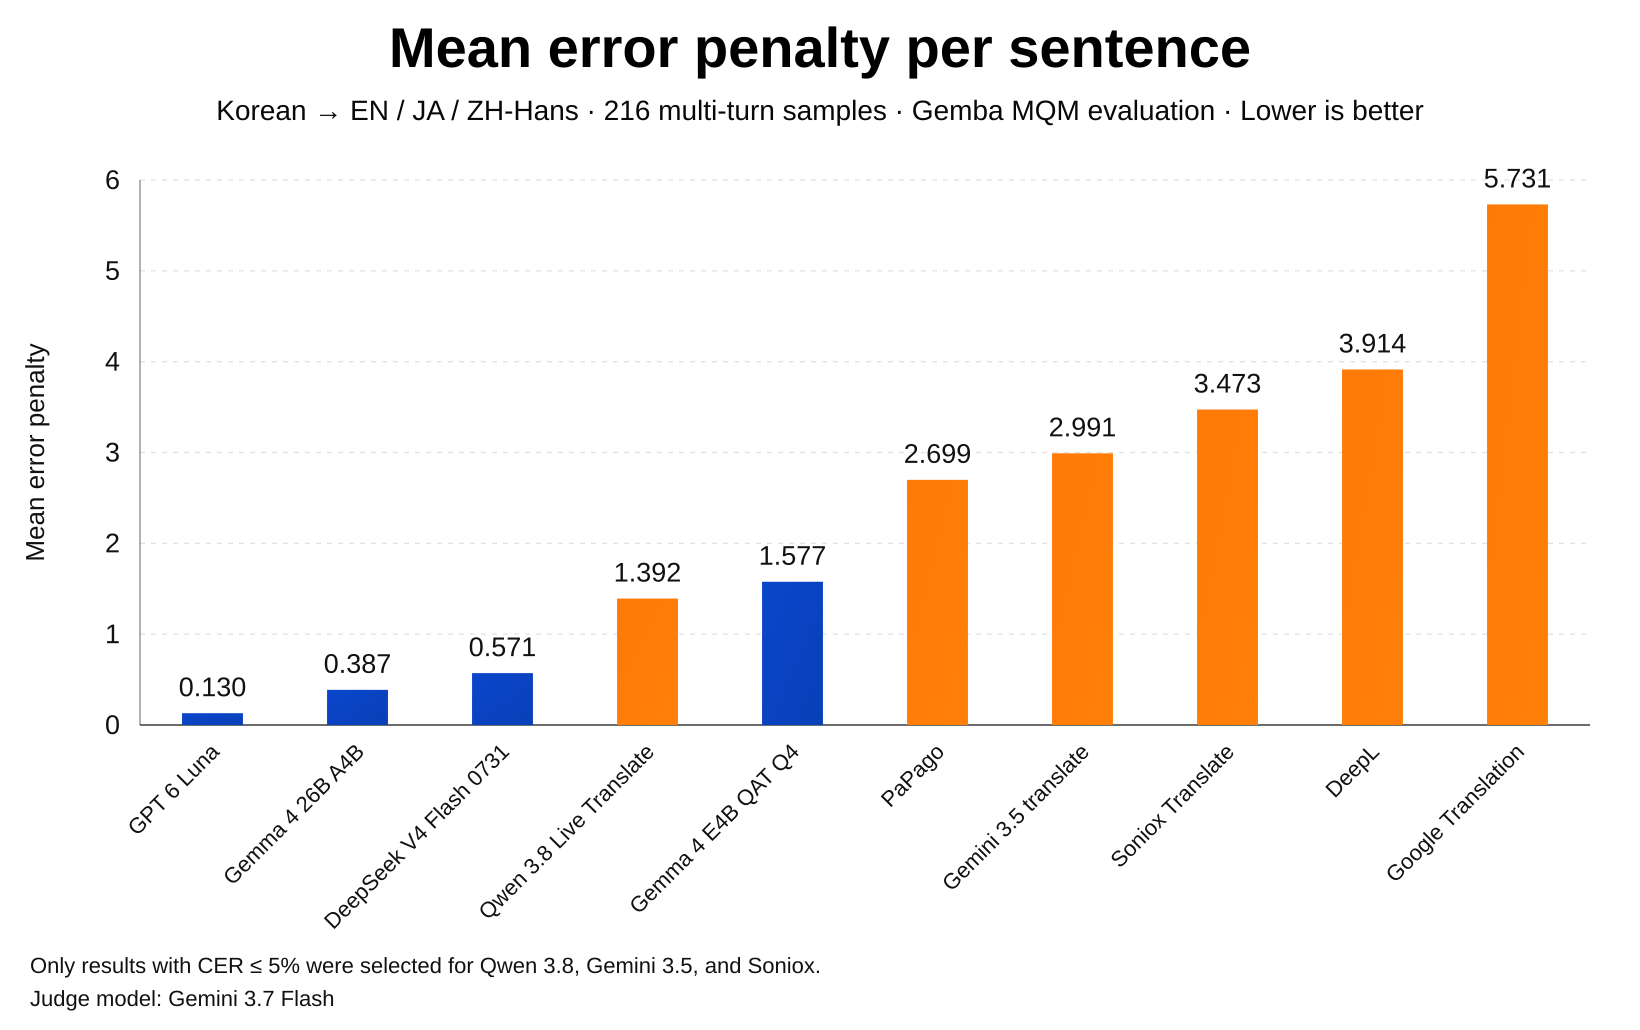
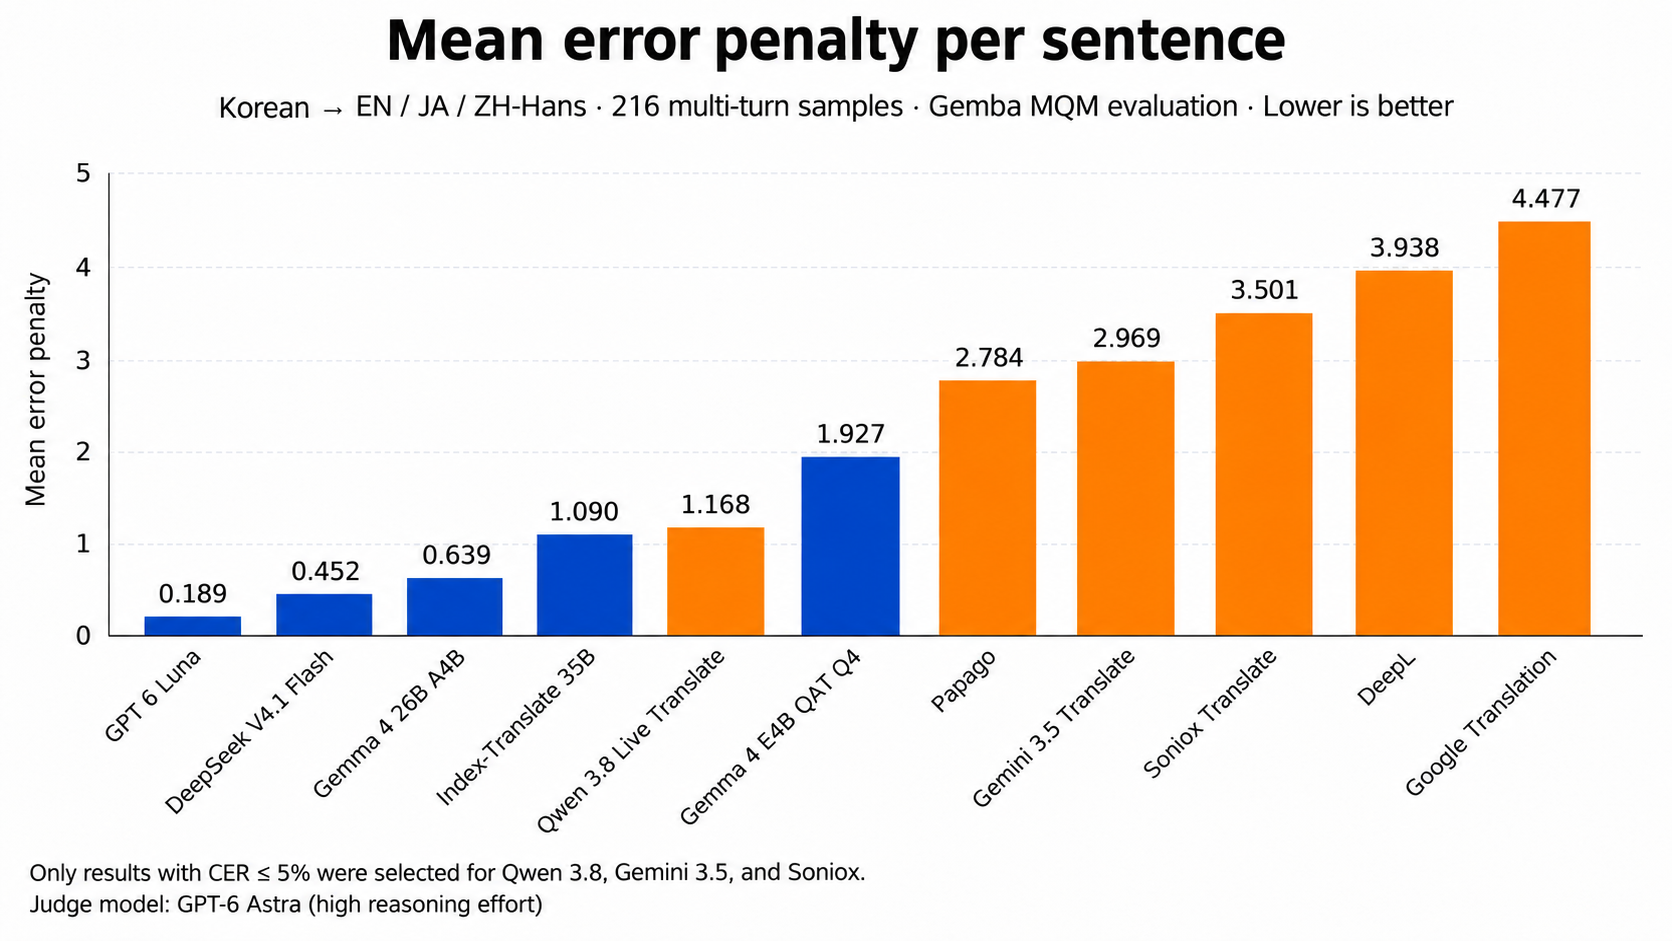
docs: drop retired ASR caveat and cap daily prompts at 30
Remove the CPU Qwen3-ASR 0.6B retirement note from every README and refresh the performance charts. Puri now admits 30 submitted prompts per installation per UTC day.

diff --git a/agent-relay/tests/service.spec.ts b/agent-relay/tests/service.spec.ts
@@ -183,7 +183,7 @@ describe('bounded relay service', () => {
     });
 
   it.each([['/v1/classify', classify], ['/v1/respond', respond]] as const)(
-    'admits the 50th prompt through %s independently of dollars and keeps D, M, tools and notices on that turn', async (path, body) => {
+    'admits the 30th prompt through %s independently of dollars and keeps D, M, tools and notices on that turn', async (path, body) => {
       vi.useFakeTimers();
       vi.setSystemTime(new Date('2026-10-30T12:00:00Z'));
       const upstream = vi.spyOn(globalThis, 'fetch').mockImplementation(async (url) =>
@@ -193,16 +193,16 @@ describe('bounded relay service', () => {
       const count = sqlite.prepare('SELECT COUNT(*) AS total FROM prompt_turns WHERE installation_hash = ? AND utc_date = ?');
       const storedUsage = sqlite.prepare('SELECT * FROM usage_daily WHERE installation_hash = ? AND utc_date = ?');
       try {
-        seedTurns(sqlite, installationHash, '2026-10-30', 49);
-        seedTurns(sqlite, 'b'.repeat(64), '2026-10-30', 50);
-        seedTurns(sqlite, installationHash, '2026-10-29', 50);
+        seedTurns(sqlite, installationHash, '2026-10-30', 29);
+        seedTurns(sqlite, 'b'.repeat(64), '2026-10-30', 30);
+        seedTurns(sqlite, installationHash, '2026-10-29', 30);
         sqlite.prepare('INSERT INTO usage_daily (installation_hash, utc_date, decisions_calls, responses_calls, cost_usd) VALUES (?, ?, 100, 100, 2)')
           .run(installationHash, '2026-10-30');
         expect((await settled(request(path, body), env)).status).toBe(200);
         const continuationPath = path === '/v1/classify' ? '/v1/respond' : '/v1/classify';
         const continuationBody = path === '/v1/classify' ? respond : classify;
         expect((await settled(request(continuationPath, continuationBody), env)).status).toBe(200);
-        expect(count.get(installationHash, '2026-10-30')).toEqual({ total: 50 });
+        expect(count.get(installationHash, '2026-10-30')).toEqual({ total: 30 });
         const row = storedUsage.get(installationHash, '2026-10-30');
         expect(row).toMatchObject({ decisions_calls: 101, responses_calls: 101, uncached_input_tokens: 140,
           cache_read_tokens: 40, cache_write_tokens: 20, decisions_output_tokens: 20, responses_output_tokens: 20,
@@ -228,7 +228,7 @@ describe('bounded relay service', () => {
           { type: 'function_call_output', call_id: 'tool1', output: '{}' },
           { role: 'user', content: '[app notice] Synthetic state change' }];
         expect((await settled(request('/v1/respond', { ...respond, input }), env)).status).toBe(200);
-        expect(count.get(installationHash, '2026-10-30')).toEqual({ total: 50 });
+        expect(count.get(installationHash, '2026-10-30')).toEqual({ total: 30 });
         expect(storedUsage.get(installationHash, '2026-10-30')).toMatchObject({ decisions_calls: 101, responses_calls: 102 });
         expect((await settled(request('/v1/respond', respond, `Bearer ${signToken({ sub: 'c'.repeat(64) })}`), env)).status).toBe(200);
         expect(count.get('c'.repeat(64), '2026-10-30')).toEqual({ total: 1 });
@@ -247,9 +247,9 @@ describe('bounded relay service', () => {
     const env = { ...testEnv(), AGENT_USAGE_DB: db };
     const count = sqlite.prepare('SELECT COUNT(*) AS total FROM prompt_turns WHERE installation_hash = ? AND utc_date = ?');
     try {
-      seedTurns(sqlite, installationHash, '2026-10-30', 49);
+      seedTurns(sqlite, installationHash, '2026-10-30', 29);
       expect((await settled(request('/v1/classify', classify), env)).status).toBe(200);
-      expect(count.get(installationHash, '2026-10-30')).toEqual({ total: 50 });
+      expect(count.get(installationHash, '2026-10-30')).toEqual({ total: 30 });
       vi.setSystemTime(new Date('2026-10-31T00:00:00Z'));
       expect((await settled(request(), env)).status).toBe(200);
       expect(count.get(installationHash, '2026-10-31')).toEqual({ total: 0 });
@@ -278,7 +278,7 @@ describe('bounded relay service', () => {
     { name: 'duplicate', turns: [turnId, turnId, turnId] },
     { name: 'different', turns: [turnId, 'e'.repeat(32), 'f'.repeat(32)] },
     { name: 'mixed duplicate and different', turns: [turnId, turnId, 'f'.repeat(32)] },
-  ])('atomically admits concurrent $name turn IDs at the 49-to-50 boundary', async ({ turns }) => {
+  ])('atomically admits concurrent $name turn IDs at the 29-to-30 boundary', async ({ turns }) => {
     vi.useFakeTimers();
     vi.setSystemTime(new Date('2026-10-30T12:00:00Z'));
     const upstream = vi.spyOn(globalThis, 'fetch').mockImplementation(async (url) =>
@@ -286,7 +286,7 @@ describe('bounded relay service', () => {
     const { sqlite, db } = accountingDatabase();
     const env = { ...testEnv(), AGENT_USAGE_DB: db };
     try {
-      seedTurns(sqlite, installationHash, '2026-10-30', 49);
+      seedTurns(sqlite, installationHash, '2026-10-30', 29);
       const responses = await Promise.all(turns.map((turn_id, index) =>
         settled(request(index % 2 === 0 ? '/v1/classify' : '/v1/respond',
           { ...(index % 2 === 0 ? classify : respond), turn_id }), env)));
@@ -306,7 +306,7 @@ describe('bounded relay service', () => {
         }
       }
       expect(sqlite.prepare('SELECT COUNT(*) AS total FROM prompt_turns WHERE installation_hash = ? AND utc_date = ?')
-        .get(installationHash, '2026-10-30')).toEqual({ total: 50 });
+        .get(installationHash, '2026-10-30')).toEqual({ total: 30 });
       const completed = responses.filter((response) => response.status === 200).length;
       expect(upstream).toHaveBeenCalledTimes(completed);
       expect(sqlite.prepare('SELECT decisions_calls + responses_calls AS calls FROM usage_daily WHERE installation_hash = ? AND utc_date = ?')
@@ -325,7 +325,7 @@ describe('bounded relay service', () => {
       const { sqlite, db } = accountingDatabase();
       const env = { ...testEnv(), AGENT_USAGE_DB: db };
       try {
-        seedTurns(sqlite, installationHash, '2026-10-30', 49);
+        seedTurns(sqlite, installationHash, '2026-10-30', 29);
         upstream.mockRejectedValueOnce(new Error('private synthetic content'));
         expect((await relay.fetch(request(path, body), env)).status).toBe(502);
         expect((await settled(request(), env)).status).toBe(200);
@@ -337,7 +337,7 @@ describe('bounded relay service', () => {
           decisions_output_tokens: 0, responses_output_tokens: 0, decisions_calls: path === '/v1/classify' ? 1 : 0,
           responses_calls: path === '/v1/classify' ? 2 : 3, missing_usage_count: 3, cost_usd: 0 });
         const turns = sqlite.prepare('SELECT * FROM prompt_turns WHERE installation_hash = ?').all(installationHash);
-        expect(turns).toHaveLength(50);
+        expect(turns).toHaveLength(30);
         expect(turns.filter((turn) => turn.turn_id === turnId)).toHaveLength(1);
         expect(JSON.stringify({ rows, turns })).not.toContain('private');
         expect((await relay.fetch(request('/v1/respond', { ...respond, turn_id: 'f'.repeat(32) }), env)).status).toBe(429);

diff --git a/agent-relay/src/usage.ts b/agent-relay/src/usage.ts
@@ -59,7 +59,7 @@ export async function checkAllowance(
       AND (EXISTS (SELECT 1 FROM prompt_turns WHERE installation_hash = ? AND turn_id = ?
         AND expires_at > ? AND model_admissions < ? AND (? = 0 OR classifier_admitted = 0))
         OR (NOT EXISTS (SELECT 1 FROM prompt_turns WHERE installation_hash = ? AND turn_id = ?)
-          AND (SELECT COUNT(*) FROM prompt_turns WHERE installation_hash = ? AND utc_date = ?) < 50))
+          AND (SELECT COUNT(*) FROM prompt_turns WHERE installation_hash = ? AND utc_date = ?) < 30))
     ORDER BY available.slot LIMIT 1
     ON CONFLICT(installation_hash, slot) DO UPDATE SET owner = excluded.owner, turn_id = excluded.turn_id,
       classification = excluded.classification, expires_at = excluded.expires_at
@@ -91,7 +91,7 @@ export async function checkAllowance(
           AND (expires_at <= ? OR model_admissions >= ? OR (? = 1 AND classifier_admitted = 1)))
           THEN 'service_turn_exhausted'
         WHEN NOT EXISTS (SELECT 1 FROM prompt_turns WHERE installation_hash = ? AND turn_id = ?)
-          AND (SELECT COUNT(*) FROM prompt_turns WHERE installation_hash = ? AND utc_date = ?) >= 50
+          AND (SELECT COUNT(*) FROM prompt_turns WHERE installation_hash = ? AND utc_date = ?) >= 30
           THEN 'service_allowance_exhausted'
         ELSE 'service_busy' END AS code
     `).bind(installation, turnId, timestamp, maxTurnAdmissions, classification ? 1 : 0,

diff --git a/agent-relay/tests/admission.spec.ts b/agent-relay/tests/admission.spec.ts
@@ -203,7 +203,7 @@ describe('durable model request admission', () => {
     const { sqlite, db } = accountingDatabase(relayMigrations.slice(0, 3));
     try {
       const seed = sqlite.prepare('INSERT INTO prompt_turns (installation_hash, turn_id, utc_date) VALUES (?, ?, ?)');
-      for (let index = 0; index < 49; index++) seed.run(installationHash, index.toString(16).padStart(32, '0'), '2026-11-01');
+      for (let index = 0; index < 29; index++) seed.run(installationHash, index.toString(16).padStart(32, '0'), '2026-11-01');
       sqlite.exec(readFileSync(new URL('../migrations/0004_request_admission.sql', import.meta.url), 'utf8'));
       const legacyId = '0'.repeat(32);
       for (const classification of [false, true]) {
@@ -215,7 +215,7 @@ describe('durable model request admission', () => {
         .toEqual({ error: 'service_allowance_exhausted' });
       expect(sqlite.prepare('SELECT utc_date, model_admissions, classifier_admitted, expires_at FROM prompt_turns WHERE turn_id = ?')
         .get(legacyId)).toEqual({ utc_date: '2026-11-01', model_admissions: 15, classifier_admitted: 1, expires_at: 0 });
-      expect(sqlite.prepare('SELECT COUNT(*) AS count FROM prompt_turns').get()).toEqual({ count: 50 });
+      expect(sqlite.prepare('SELECT COUNT(*) AS count FROM prompt_turns').get()).toEqual({ count: 30 });
     } finally {
       sqlite.close();
     }

diff --git a/agent-relay/src/index.ts b/agent-relay/src/index.ts
@@ -101,7 +101,7 @@ export default {
       if (admission.error === 'service_busy') {
         return error(429, admission.error, 'An assistant request is already running. Wait for it to finish before trying again.');
       }
-      return error(429, admission.error, 'The daily limit of 50 submitted prompts is reached for this UTC day. Settings, Cancel and the static guide remain available.');
+      return error(429, admission.error, 'The daily limit of 30 submitted prompts is reached for this UTC day. Settings, Cancel and the static guide remain available.');
     }
     const accounting = { ...admission.accounting, protocol: (body as ClassifyRequest | RespondRequest).agent_protocol };
     const input = (body as ClassifyRequest | RespondRequest).input;

diff --git a/agent-relay/tests/support.spec.ts b/agent-relay/tests/support.spec.ts
@@ -69,7 +69,7 @@ describe('user-authorized opaque support storage', () => {
     sqlite.prepare('INSERT INTO usage_daily (installation_hash, utc_date, decisions_calls, responses_calls) VALUES (?, ?, 50, 50)')
       .run(installationHash, day);
     const seed = sqlite.prepare('INSERT INTO prompt_turns (installation_hash, turn_id, utc_date) VALUES (?, ?, ?)');
-    for (let index = 0; index < 50; index++) {
+    for (let index = 0; index < 30; index++) {
       seed.run(installationHash, index.toString(16).padStart(32, '0'), day);
     }
     const turnsBefore = sqlite.prepare('SELECT * FROM prompt_turns').all();

diff --git a/tests/app/test_agent_chat_tools.py b/tests/app/test_agent_chat_tools.py
@@ -2156,7 +2156,6 @@ async def test_accounts_context_allowlists_coarse_state_without_auth_refresh_or_
     assert accounts["managed"]["budget"]["freshness"] == "unknown"
     assert accounts["managed"]["budget"]["unit"] == "percent"
     assert accounts["puri"]["allowance"]["remaining"] is None
-    assert accounts["puri"]["allowance"]["limit"] == 50
     assert accounts["puri"]["allowance"]["unit"] == "submitted_prompt_turns"
     assert accounts["puri"]["allowance"]["period"] == "server_utc_day"
     assert all(action["requires_user_click"] for action in accounts["actions"])

diff --git a/src/puripuly_heart/app/services/agent_chat/tools.py b/src/puripuly_heart/app/services/agent_chat/tools.py
@@ -194,7 +194,7 @@ def project_accounts(value: object) -> dict:
         "puri": {
             "allowance": {
                 "unit": "submitted_prompt_turns",
-                "limit": 50,
+                "limit": 30,
                 "period": "server_utc_day",
                 "remaining": None,
                 "availability": "unavailable",

diff --git a/docs/cli.md b/docs/cli.md
@@ -102,6 +102,7 @@ puripuly.exe settings apply --file .\changes.json --expected-revision <current-r
 
 ### Agent Chat Control
 
+- Puri admits up to 30 submitted prompts per installation per UTC day, resetting at 00:00 UTC (09:00 KST). Classification and tool continuations share their prompt's allowance; starting a new conversation or restarting the app does not reset it.
 - Puri uses the same application-control owners as the CLI through finite typed tools, not shell commands. It controls only the current application instance and exposes a subset of the CLI: settings changes, capture/translation/overlay switches, recognition/translation probes, microphone diagnosis, OSC discovery retry, Peer capture retry, GPU activation retry, stored-key deletion, account sign-out, desktop overlay position reset, and read-only status queries.
 - CLI-only actions remain available from the CLI but not from Puri: shutdown and restart, model download/install/import/deletion and cancellation, Gemma preparation, GPU discovery, standalone credential save/verify, account login, manual text submission, Audio Test, Peer target selection, overlay size/lock/calibration, operation status/wait/cancel, and event/log observation.
 - Puri receives app state as modules: `core` (switches, channels, pending card, operations, recent diagnostics) plus `audio`, `recognition`, `translation`, `accounts`, `languages`, `output`, and `general`. For work requests, D independently selects relevant modules and whether the task continues; `core` is always observed. Missing, ambiguous or invalid selection and classification timeouts select all modules. Omitted modules are not absent or disabled; `missing` records failed local observations. A `get_app_context` read observes `core` plus the requested module, and `overview` observes all of them.

diff --git a/docs/readme/README.ru.md b/docs/readme/README.ru.md
@@ -89,7 +89,7 @@ PuriPuly — двусторонний голосовой переводчик д
 
 ![Средний штраф за предложение. С корейского на английский / японский / китайский (упрощённый), 216 многоходовых примеров, оценка Gemba MQM; чем ниже, тем лучше. Синие столбцы — модели, доступные в PuriPuly: GPT-6 Luna (0.130), Gemma 4 26B A4B (0.387), DeepSeek-V4 Flash 0731 (0.571), Gemma 4 E4B QAT Q4 (1.577). Оранжевые столбцы — внешние решения для сравнения: Qwen 3.8 Live Translate (1.392), Papago (2.699), Gemini 3.5 Translate (2.991), Soniox Translate (3.473), DeepL (3.914), Google Translation (5.731). Для Qwen 3.8, Gemini 3.5 и Soniox отобраны только результаты с долей ошибочных символов (CER) не выше 5%. Модель-оценщик: Gemini 3.7 Flash.](../images/performance/2.png)
 
-- Синие столбцы показывают конфигурации PuriPuly на момент тестирования. CPU Qwen3-ASR 0.6B с тех пор удалён; его результат не измеряет новые модели ниже.
+- Синие столбцы показывают конфигурации PuriPuly на момент тестирования.
 - Для эксперимента использован фреймворк Microsoft Gemba MQM.
 - Тесты шли в диалоговом формате — ближе к реальному разговору.
 - Полные результаты — [здесь](https://github.com/kapitalismho/korean-llm-context-translation-benchmark).

diff --git a/docs/readme/README.ja.md b/docs/readme/README.ja.md
@@ -87,7 +87,7 @@ VRChatやDiscordを含む、さまざまな環境で使えます。
 
 ![文あたり平均エラーペナルティチャート。韓国語→英語/日本語/中国語（簡体）、216マルチターンサンプル、Gemba MQM評価、低いほど良い。青い棒はPuriPulyで使用できるモデル：GPT-6 Luna (0.130)、Gemma 4 26B A4B (0.387)、DeepSeek-V4 Flash 0731 (0.571)、Gemma 4 E4B QAT Q4 (1.577)。オレンジの棒は外部の比較対象：Qwen 3.8 Live Translate (1.392)、Papago (2.699)、Gemini 3.5 Translate (2.991)、Soniox Translate (3.473)、DeepL (3.914)、Google Translation (5.731)。Qwen 3.8、Gemini 3.5、Sonioxは文字誤り率（CER）が5%以下の結果のみを選別。評価モデル：Gemini 3.7 Flash。](../images/performance/2.png)
 
-- 青い棒はベンチマーク時のPuriPuly構成です。CPU Qwen3-ASR 0.6Bはその後廃止されており、その結果は以下の新モデルを測定したものではありません。
+- 青い棒はベンチマーク時のPuriPuly構成です。
 - マイクロソフトのGemba MQMフレームワークを使って実験しました。
 - 実際の会話に近づけるため、マルチターン環境で構成しました。
 - 全体の実験結果は[こちら](https://github.com/kapitalismho/korean-llm-context-translation-benchmark)を参照してください。

diff --git a/docs/readme/README.ko.md b/docs/readme/README.ko.md
@@ -96,7 +96,7 @@ VRChat, Discord를 포함하여 여러 환경에서 사용 가능해요.
 
 ![문장당 평균 에러 페널티 차트. 한국어 → 영어/일본어/중국어(간체), 216개 멀티턴 샘플, Gemba MQM 평가, 낮을수록 좋음. 파란색 막대는 PuriPuly에서 사용할 수 있는 모델: GPT-6 Luna (0.130), Gemma 4 26B A4B (0.387), DeepSeek-V4 Flash 0731 (0.571), Gemma 4 E4B QAT Q4 (1.577). 주황색 막대는 외부 비교 대상: Qwen 3.8 Live Translate (1.392), Papago (2.699), Gemini 3.5 Translate (2.991), Soniox Translate (3.473), DeepL (3.914), Google Translation (5.731). Qwen 3.8, Gemini 3.5, Soniox는 문자 오류율(CER) 5% 이하인 결과만 선별. 평가 모델: Gemini 3.7 Flash.](../images/performance/2.png)
 
-- 파란색 막대는 벤치마크 당시 PuriPuly의 구성이에요. CPU Qwen3-ASR 0.6B는 이후 제거되었으며, 해당 수치는 아래의 새 모델을 측정한 결과가 아니에요.
+- 파란색 막대는 벤치마크 당시 PuriPuly의 구성이에요.
 - 마이크로소프트의 Gemba MQM 프레임워크를 사용해서 실험했어요.
 - 실제 대화 환경과 가깝게 맥락을 포함한 멀티턴 환경으로 구성했어요.
 - 전체 실험 결과는 [여기](https://github.com/kapitalismho/korean-llm-context-translation-benchmark)를 참조해주세요.

diff --git a/README.md b/README.md
@@ -88,7 +88,7 @@ It works in many environments, including VRChat and Discord.
 
 ![Mean error penalty per sentence. Korean to EN / JA / ZH-Hans, 216 multi-turn samples, Gemba MQM evaluation; lower is better. Blue bars are models available in PuriPuly: GPT-6 Luna (0.130), Gemma 4 26B A4B (0.387), DeepSeek-V4 Flash 0731 (0.571), Gemma 4 E4B QAT Q4 (1.577). Orange bars are external baselines: Qwen 3.8 Live Translate (1.392), Papago (2.699), Gemini 3.5 Translate (2.991), Soniox Translate (3.473), DeepL (3.914), Google Translation (5.731). Only results with a character error rate (CER) of 5% or less were selected for Qwen 3.8, Gemini 3.5, and Soniox. Judge model: Gemini 3.7 Flash.](docs/images/performance/2.png)
 
-- Blue bars show PuriPuly configurations at the time of the benchmark. CPU Qwen3-ASR 0.6B has since been retired; its result does not measure the replacement models below.
+- Blue bars show PuriPuly configurations at the time of the benchmark.
 - We ran the experiment using Microsoft's Gemba MQM framework.
 - It was set up as a multi-turn environment to better resemble real conversation.
 - For the full results, see [here](https://github.com/kapitalismho/korean-llm-context-translation-benchmark).
